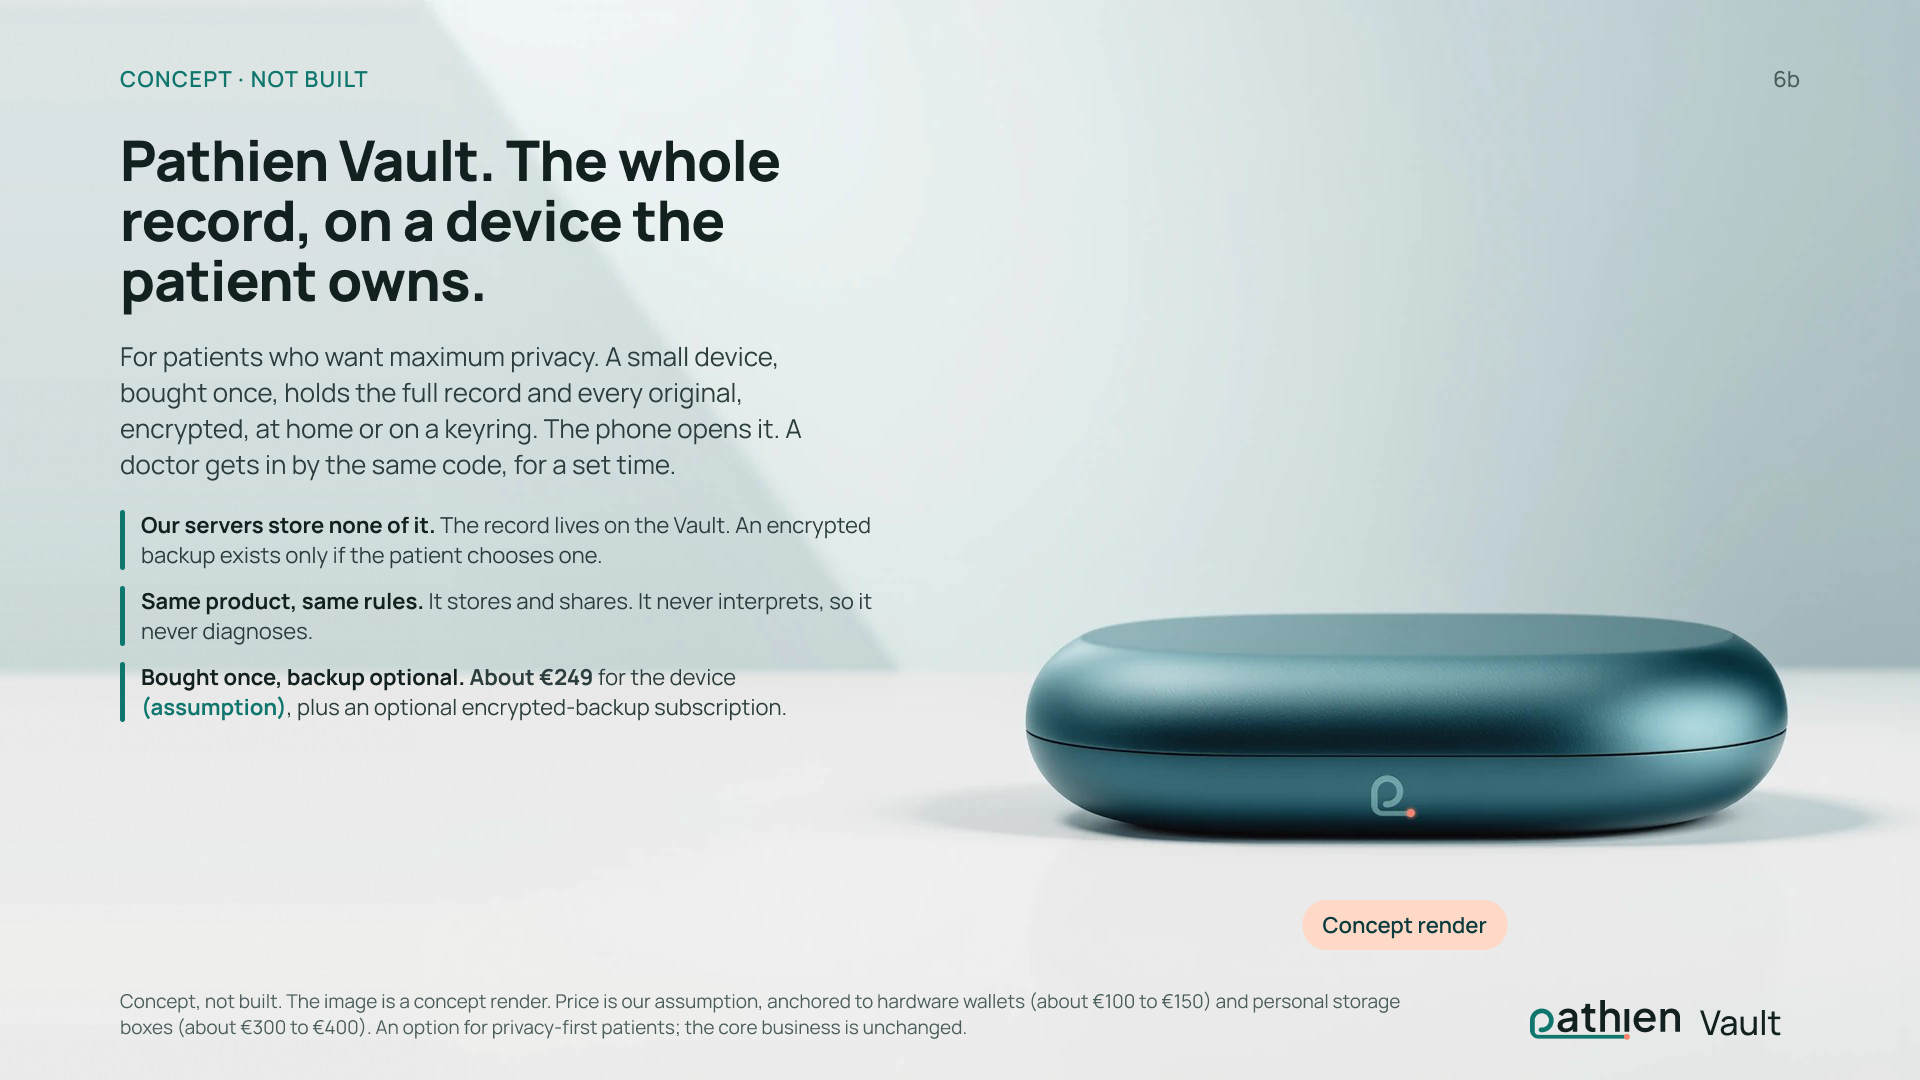
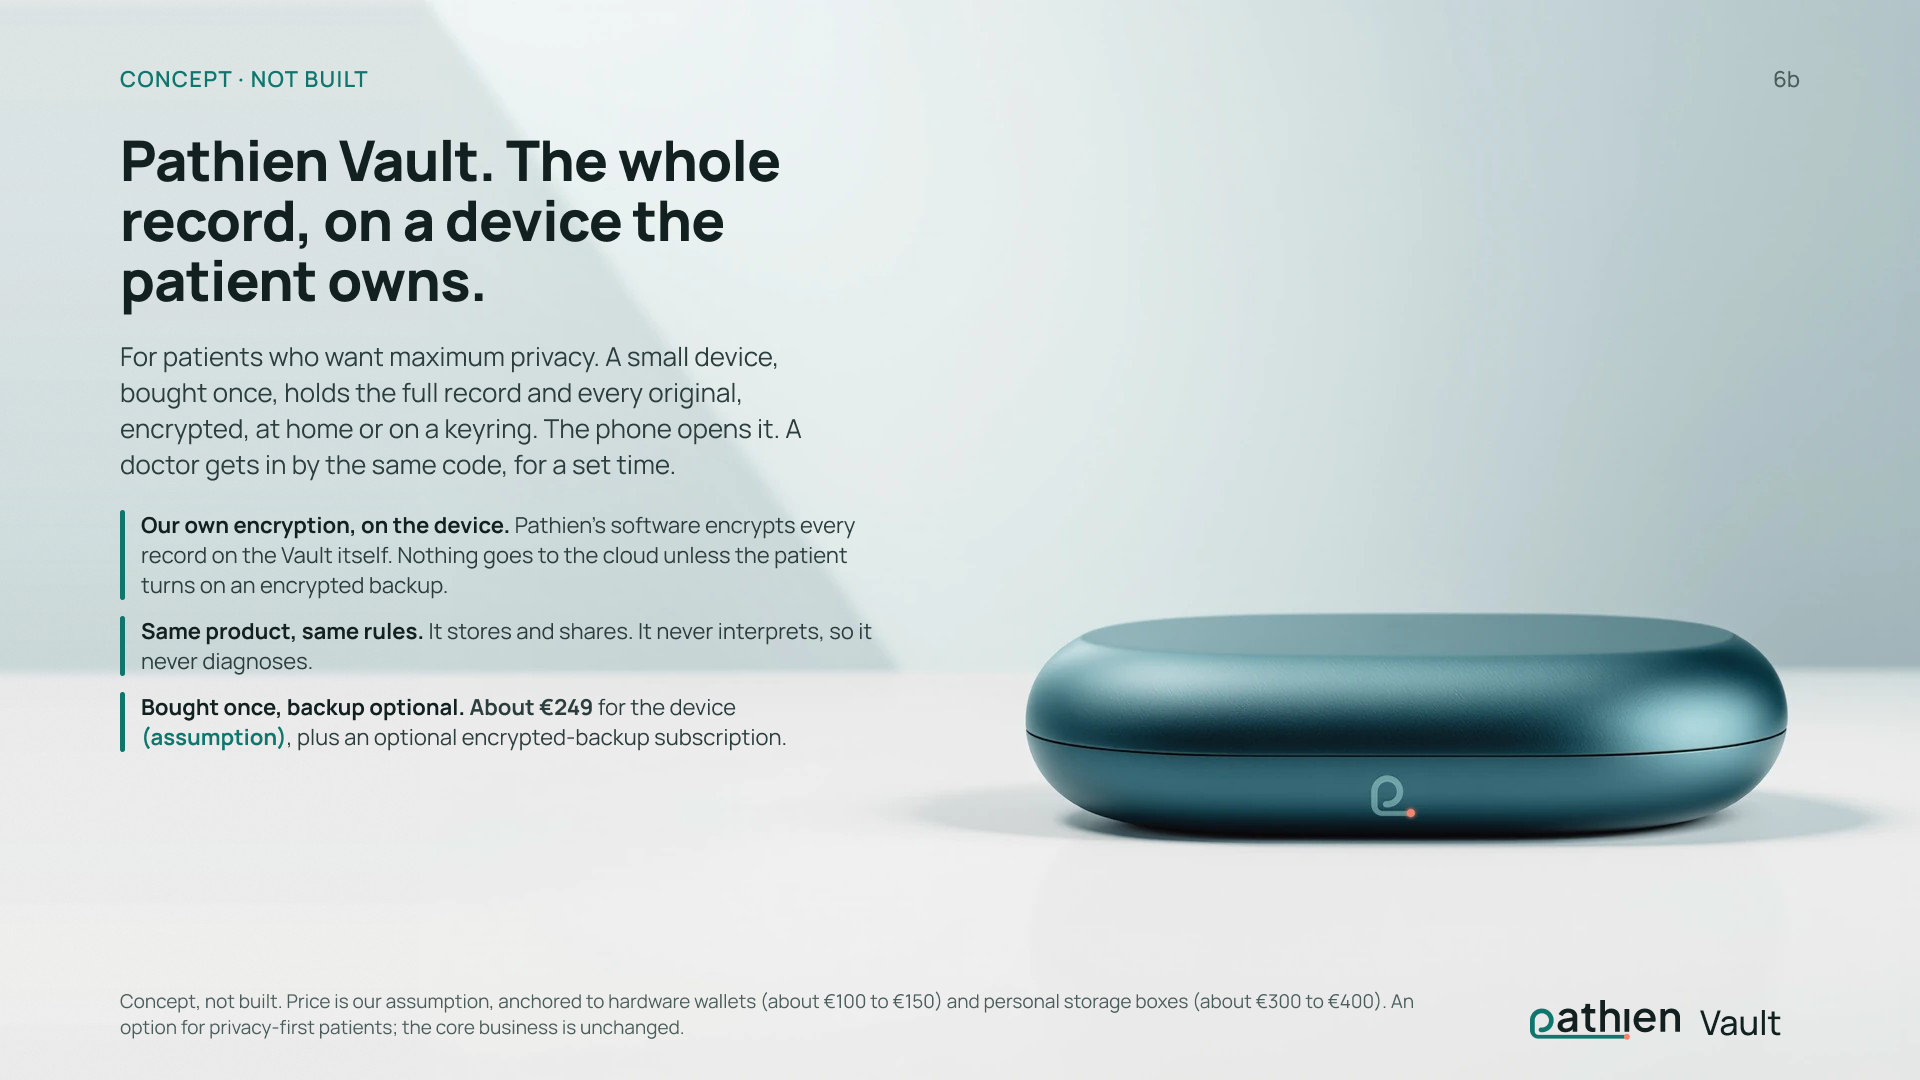
fix(landing): slide 6b drops the concept-render tag, adds on-device encryption point (MIN-4503)
Hero tag is now optional; the slide keeps the 'Concept · not built' eyebrow and footer.
Deck content v3.3 and Pix's slide-06b.png copied in.

Contributes to MIN-4503.

Changed region(s): [[0.0625, 0.4583, 0.4375, 0.7028], [0.0625, 0.9167, 0.75, 0.9778], [0.6562, 0.825, 0.7812, 0.8861]]

diff --git a/landing/src/deck/slides.ts b/landing/src/deck/slides.ts
@@ -25,7 +25,7 @@ const N: Record<string, string[]> = {
     "We designed privacy in from the first line. The key lives on the patient's device. A doctor gets in only face to face, only with a yes, and only for a set time. Every access goes into a log the patient can read and nobody can edit; the log holds fingerprints, never health data. And insurers never get in. Not as readers, not as buyers. That is a product rule, not a setting."
   ],
   "6b": [
-    "Some people will not want their record on anyone's server, ours included. For them we are designing Pathien Vault: a small device they buy once, holding the whole record, encrypted, at home. The doctor still gets in by the code, for a set time. It is a concept, not built yet, and an option, not the business."
+    "Some people will not want their record on anyone's server, ours included. For them we are designing Pathien Vault: a small device they buy once, holding the whole record at home. The doctor still gets in by the code, for a set time. Pathien's own encryption runs on the device, so nothing sits in the cloud. It is a concept, not built yet, and an option, not the business."
   ],
   "7": [
     "The founder's question was simple: somewhere in the world, someone has Maria's pattern. If she says yes, her doctor can see that similar unnamed cases exist and ask to talk to the doctor treating one of them. Not to sell data. To shorten the years patients spend going from doctor to doctor. Opt-in only, and she can withdraw at any time."
@@ -185,14 +185,13 @@ export const slides: Slide[] = [
     headline: 'Pathien Vault. The whole record, on a device the patient owns.',
     body: 'For patients who want maximum privacy. A small device, bought once, holds the full record and every original, encrypted, at home or on a keyring. The phone opens it. A doctor gets in by the same code, for a set time.',
     points: [
-      '**Our servers store none of it.** The record lives on the Vault. An encrypted backup exists only if the patient chooses one.',
+      '**Our own encryption, on the device.** Pathien\'s software encrypts every record on the Vault itself. Nothing goes to the cloud unless the patient turns on an encrypted backup.',
       '**Same product, same rules.** It stores and shares. It never interprets, so it never diagnoses.',
       '**Bought once, backup optional.** **About €249** for the device [[(assumption)]], plus an optional encrypted-backup subscription.',
     ],
     image: { src: '/deck/vault-hero.jpg', alt: 'A slim teal-night aluminium device, a rounded pebble with a tone-on-tone Pathien mark and one small coral light, on a pale surface' },
-    tag: 'Concept render',
     lockupSuffix: 'Vault',
-    footer: 'Concept, not built. The image is a concept render. Price is our assumption, anchored to hardware wallets (about €100 to €150) and personal storage boxes (about €300 to €400). An option for privacy-first patients; the core business is unchanged.',
+    footer: 'Concept, not built. Price is our assumption, anchored to hardware wallets (about €100 to €150) and personal storage boxes (about €300 to €400). An option for privacy-first patients; the core business is unchanged.',
   },
   {
     id: '7', template: 'statement', theme: 'air', no: '07', kicker: 'Possible matches', notes: N['7'],

diff --git a/landing/src/deck/types.ts b/landing/src/deck/types.ts
@@ -4,7 +4,7 @@
 /** Every product or demo visual must carry one of these two tags. */
 export type DemoTag = 'Mock-up' | 'Working demo · synthetic data';
 
-/** A Hero slide shows an image of something that does not exist yet, so its tag is one of these two. Required. */
+/** A Hero slide shows an image of something that does not exist yet, so when it carries a tag it is one of these two. The tag is optional. */
 export type HeroTag = 'Concept render' | 'Mock-up';
 
 export type Theme = 'air' | 'mist' | 'night';
@@ -29,7 +29,7 @@ export interface SlideBase {
 
 export interface Rich { text: string }
 
-/* ---------- Hero (full-bleed image, text column, required concept tag) ---------- */
+/* ---------- Hero (full-bleed image, text column, optional concept tag) ---------- */
 export interface HeroSlide extends SlideBase {
   template: 'hero';
   headline: string;
@@ -37,8 +37,8 @@ export interface HeroSlide extends SlideBase {
   /** Text supports **bold** and [[accent]] (teal bold, e.g. "(assumption)"). */
   points: string[];
   image: { src: string; alt: string };
-  /** Required. Placed on the image, same size as the demo tags. */
-  tag: HeroTag;
+  /** Optional. Placed on the image, same size as the demo tags. Without it the slide must say concept or mock-up elsewhere (kicker, footer). */
+  tag?: HeroTag;
   /** Word set beside the lockup, bottom-right (e.g. "Vault"). */
   lockupSuffix?: string;
 }

diff --git a/landing/src/deck/templates/Hero.tsx b/landing/src/deck/templates/Hero.tsx
@@ -16,7 +16,7 @@ export function Hero({ s }: { s: HeroSlide }) {
           {s.points.map((p, i) => <li key={i}>{withAccent(p)}</li>)}
         </ul>
       </div>
-      <span className="demo-tag hero-tag">{s.tag}</span>
+      {s.tag && <span className="demo-tag hero-tag">{s.tag}</span>}
       <div className="hero-lock">
         <Lockup theme={s.theme} className="hero-lockup" />
         {s.lockupSuffix && <span className="hero-suffix">{s.lockupSuffix}</span>}

diff --git a/docs/deck/deck-content.md b/docs/deck/deck-content.md
@@ -3,7 +3,7 @@
 | | |
 |---|---|
 | **Owner** | Anna Lytica (Marketing), MIN-4429. Deck story: CEO (MIN-4425). Design: Pix (MIN-4428), next. |
-| **Version** | **v3.2, 14 Nov 2026** (MIN-4503: new slide 6b, Pathien Vault, a concept device for patients who want maximum privacy; founder: "what if someone that want's his privacy can buy our device that can hold his data. Anna and pix work on this and add one slide with a very super elegant image with our device that looks very premioum"; no other slide renumbered). v3.1, 14 Nov 2026 (MIN-4503: team and ask from the CEO plan v2, `docs/business/team-and-funding-plan.md` §7; slide 14 replaced, slide 15 new; founder: "put it in the deck when ready"). v3, 14 Nov 2026 (MIN-4503: name Pathien; new slide 11, revenue years 1 to 3, on the founder's ask "the numbers of how many money we can earn" and "Yes, update to v3"; Appendix A's SOM retired for the bottom-up line; demo slides say what is real and what is synthetic). v2, 14 Nov 2026 (MIN-4503: reframed on the founder's two points, "Dr Google" and better doctor decisions; numbers from `pitch-numbers-2026-11-14.md` and `treg-findings-2026-11-14.md`). v1, 13 Nov 2026. |
+| **Version** | **v3.3, 14 Nov 2026** (MIN-4503: slide 6b, the "Concept render" tag removed and the encryption point added; founder: "remove the concept render -> and mention that this device has our own encrypted software for the data so they are not in the cloud"; the eyebrow "Concept · not built" stays). v3.2, 14 Nov 2026 (MIN-4503: new slide 6b, Pathien Vault, a concept device for patients who want maximum privacy; founder: "what if someone that want's his privacy can buy our device that can hold his data. Anna and pix work on this and add one slide with a very super elegant image with our device that looks very premioum"; no other slide renumbered). v3.1, 14 Nov 2026 (MIN-4503: team and ask from the CEO plan v2, `docs/business/team-and-funding-plan.md` §7; slide 14 replaced, slide 15 new; founder: "put it in the deck when ready"). v3, 14 Nov 2026 (MIN-4503: name Pathien; new slide 11, revenue years 1 to 3, on the founder's ask "the numbers of how many money we can earn" and "Yes, update to v3"; Appendix A's SOM retired for the bottom-up line; demo slides say what is real and what is synthetic). v2, 14 Nov 2026 (MIN-4503: reframed on the founder's two points, "Dr Google" and better doctor decisions; numbers from `pitch-numbers-2026-11-14.md` and `treg-findings-2026-11-14.md`). v1, 13 Nov 2026. |
 | **Event** | Gen AI Summit Hackathon, Athens LifeTech Park, Biotech & AI track |
 | **Market** | Global. Founder: "Dont focus on the greek market. we need to focus on global market" |
 | **Sources** | Only `docs/research/` (Sales). Each number carries a source ID from the table at the end (S1 to S22; S21 and S22, added in v3.2, are retail price anchors for slide 6b found by Marketing, not by Sales) and its status from the research: **verified**, **secondary**, or **assumption**. Nothing from the research's "Do not put on a slide" list is used. |
@@ -162,11 +162,11 @@ The founder asked for it (14 Nov 2026, verbatim): *"what if someone that want's 
 **Body (39 words):** For patients who want maximum privacy. A small device, bought once, holds the full record and every original, encrypted, at home or on a keyring. The phone opens it. A doctor gets in by the same code, for a set time.
 
 **Three points:**
-- **Our servers store none of it.** The record lives on the Vault. An encrypted backup exists only if the patient chooses one.
+- **Our own encryption, on the device.** Pathien's software encrypts every record on the Vault itself. Nothing goes to the cloud unless the patient turns on an encrypted backup.
 - **Same product, same rules.** It stores and shares. It never interprets, so it never diagnoses.
 - **Bought once, backup optional.** About €249 for the device *(assumption)*, plus an optional encrypted-backup subscription.
 
-**Footer, required:** Concept, not built. The image is a concept render. Price is our assumption, anchored to hardware wallets (about €100 to €150) and personal storage boxes (about €300 to €400). An option for privacy-first patients; the core business is unchanged.
+**Footer, required:** Concept, not built. Price is our assumption, anchored to hardware wallets (about €100 to €150) and personal storage boxes (about €300 to €400). An option for privacy-first patients; the core business is unchanged.
 
 **Visual note for Pix:** One object, alone, as a premium product shot. The exact form is yours; this note is about mood and composition only.
 - **Mood:** quiet, expensive, calm. Think of the way a good watch or a pair of earbuds is shot, not a gadget ad. Nothing medical, nothing "cyber".
@@ -174,10 +174,10 @@ The founder asked for it (14 Nov 2026, verbatim): *"what if someone that want's 
 - **Colour:** teal-night background or the brand's warm light neutral (`docs/brand/tokens.css`). Coral appears once, if at all, as a small detail that echoes the dot at the end of the logo's path (a status light, a pull tab), never as a large fill.
 - **Optional second, smaller frame:** the same device on a keyring next to a phone, to show the size. Only if it does not crowd the hero.
 - **Never:** padlocks, shields, circuit boards, glowing blue data streams, floating holograms, hands in gloves, real people's faces, any medical cross. No ™ or ®.
-- **Honesty (rule 8):** the image carries a small "Concept render" tag, the same size as the "Working demo · synthetic data" tags on slide 5.
+- **Honesty (rule 8):** no "Concept render" tag on the image (founder, v3.3). The eyebrow "Concept · not built" and the footer carry the label.
 - The Pathien lockup top-left as on every slide; "Vault" is set in Manrope next to it, never drawn into the wordmark.
 
-**Speaker notes (~20 s):** "Some people will not want their record on anyone's server, ours included. For them we are designing Pathien Vault: a small device they buy once, holding the whole record, encrypted, at home. The doctor still gets in by the code, for a set time. It is a concept, not built yet, and an option, not the business."
+**Speaker notes (~20 s):** "Some people will not want their record on anyone's server, ours included. For them we are designing Pathien Vault: a small device they buy once, holding the whole record at home. The doctor still gets in by the code, for a set time. Pathien's own encryption runs on the device, so nothing sits in the cloud. It is a concept, not built yet, and an option, not the business."
 
 **Behind the slide (for questions, not on the slide): the trade-offs.**
 1. **Losing the device.** Without a backup, a lost or broken Vault means a lost record. Answer: a recovery key printed at setup, and the optional encrypted backup. Both add steps that privacy-first buyers may skip.

diff --git a/landing/src/deck/README.md b/landing/src/deck/README.md
@@ -4,7 +4,7 @@ A web presentation built from reusable slide templates. The words live in one da
 
 - `slides.ts`: the whole deck as typed data. One object per slide. Words come from `docs/deck/deck-content.md`; speaker notes too.
 - `types.ts`: the props every template takes (a `Slide` is a union keyed by `template`).
-- `templates/`: layouts. `Cover`, `Hero` (full-bleed image + text column + required `tag` of `'Concept render'` or `'Mock-up'`; used by slide 6b), `Stats`, `Statement` (points + side panel), `Funnel` (big number), `Chart` (stacked bars from data), `Table`, `Product` (phone frames), `Compare` (positioning map), `Steps` (timeline or ascending cards), `TeamAsk`, `Appendix`.
+- `templates/`: layouts. `Cover`, `Hero` (full-bleed image + text column + optional `tag` of `'Concept render'` or `'Mock-up'`; used by slide 6b), `Stats`, `Statement` (points + side panel), `Funnel` (big number), `Chart` (stacked bars from data), `Table`, `Product` (phone frames), `Compare` (positioning map), `Steps` (timeline or ascending cards), `TeamAsk`, `Appendix`.
 - `Deck.tsx`: the presenter (scaling, keys, hash, notes, print). `deck.css`: all styles, on a fixed 1920x1080 canvas.
 - Entry: `landing/deck/index.html` (`noindex`), built to `dist/deck/index.html`. The landing at `/` is a separate entry.
 
@@ -13,7 +13,7 @@ A web presentation built from reusable slide templates. The words live in one da
 1. Copy `slides.ts` to `slides.<name>.ts`, keep the `Slide[]` shape, and replace the data. Pick a `template` per slide; TypeScript tells you which fields it needs.
 2. Point `main.tsx` at the new file (or add `deck/<name>/index.html` and a second input in `vite.config.ts`).
 3. Rules baked into the types: every `product` card and every `statement` side panel of kind `notice`, `phone` or `matches` must carry a `tag` of `'Mock-up'` or `'Working demo · synthetic data'`. Do not add red, a trademark sign, or a funding-sources slide.
-4. A `hero` slide must carry a `tag`; the type requires it. Never show a concept image without it.
+4. A `hero` slide's `tag` is optional. If it has none, the slide must carry a concept or mock-up label elsewhere (kicker and footer). Never show a concept image without a label.
 5. Keep every "assumption" or "our estimate" label at the same size as its number.
 
 ## Presenting
